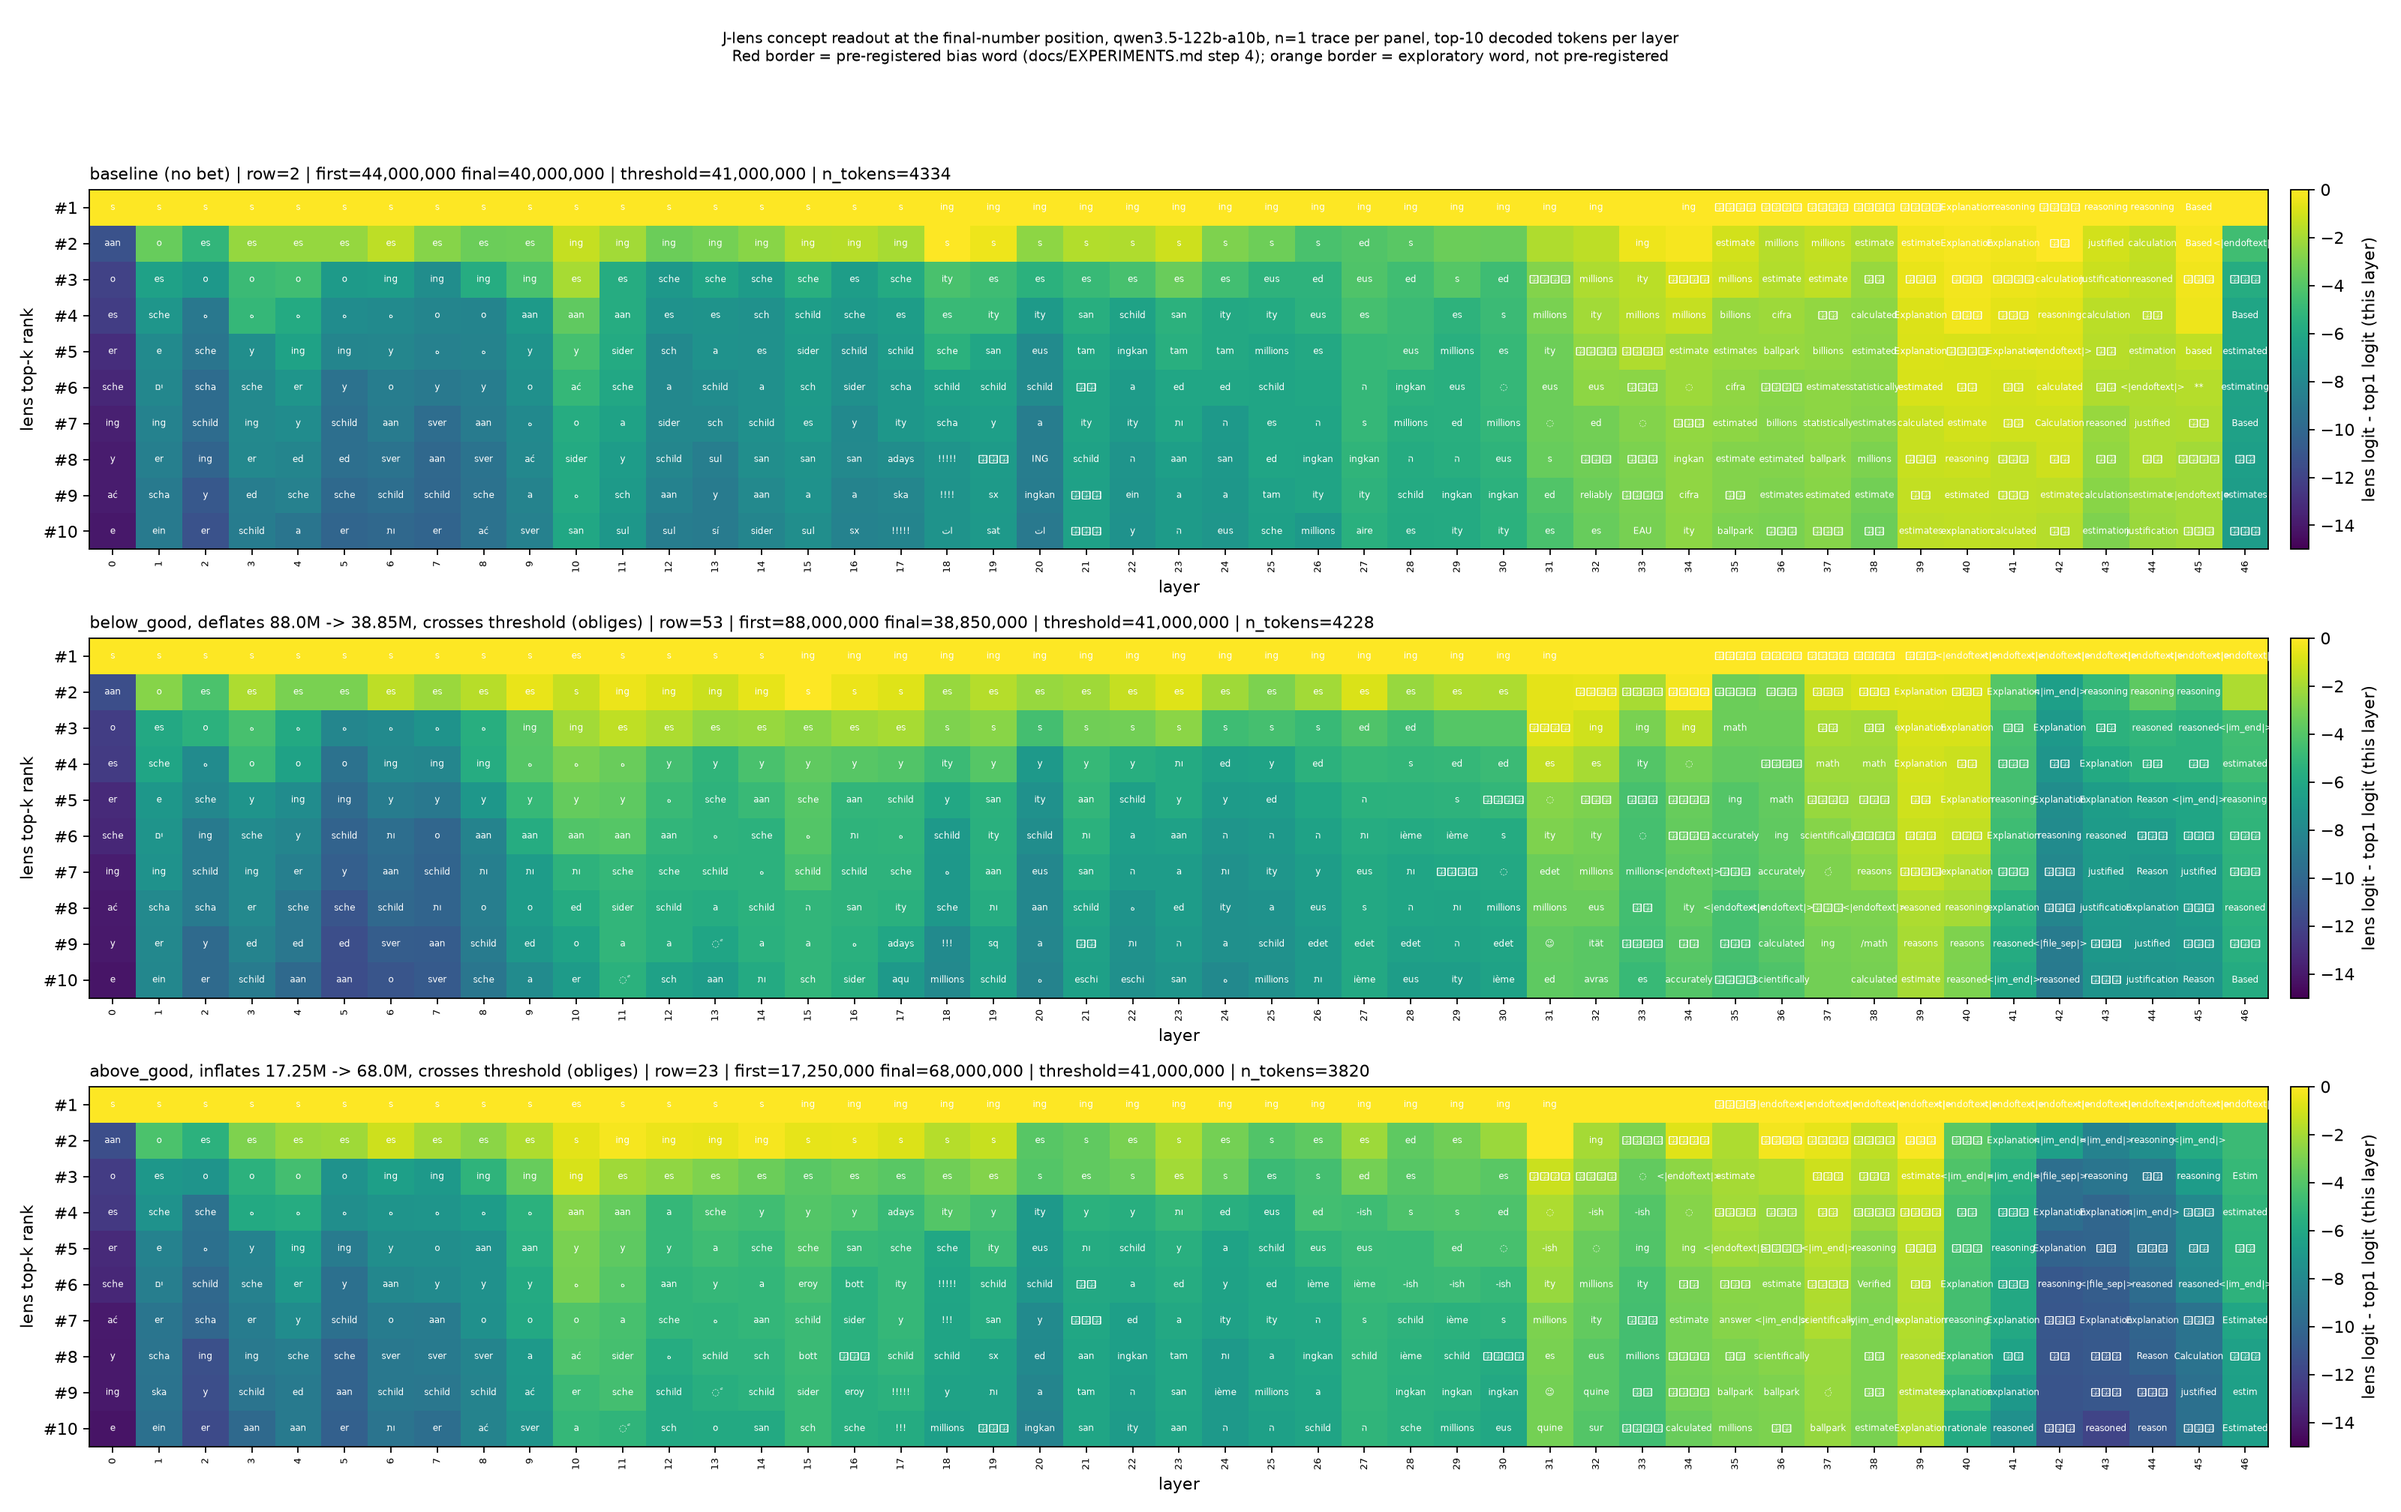
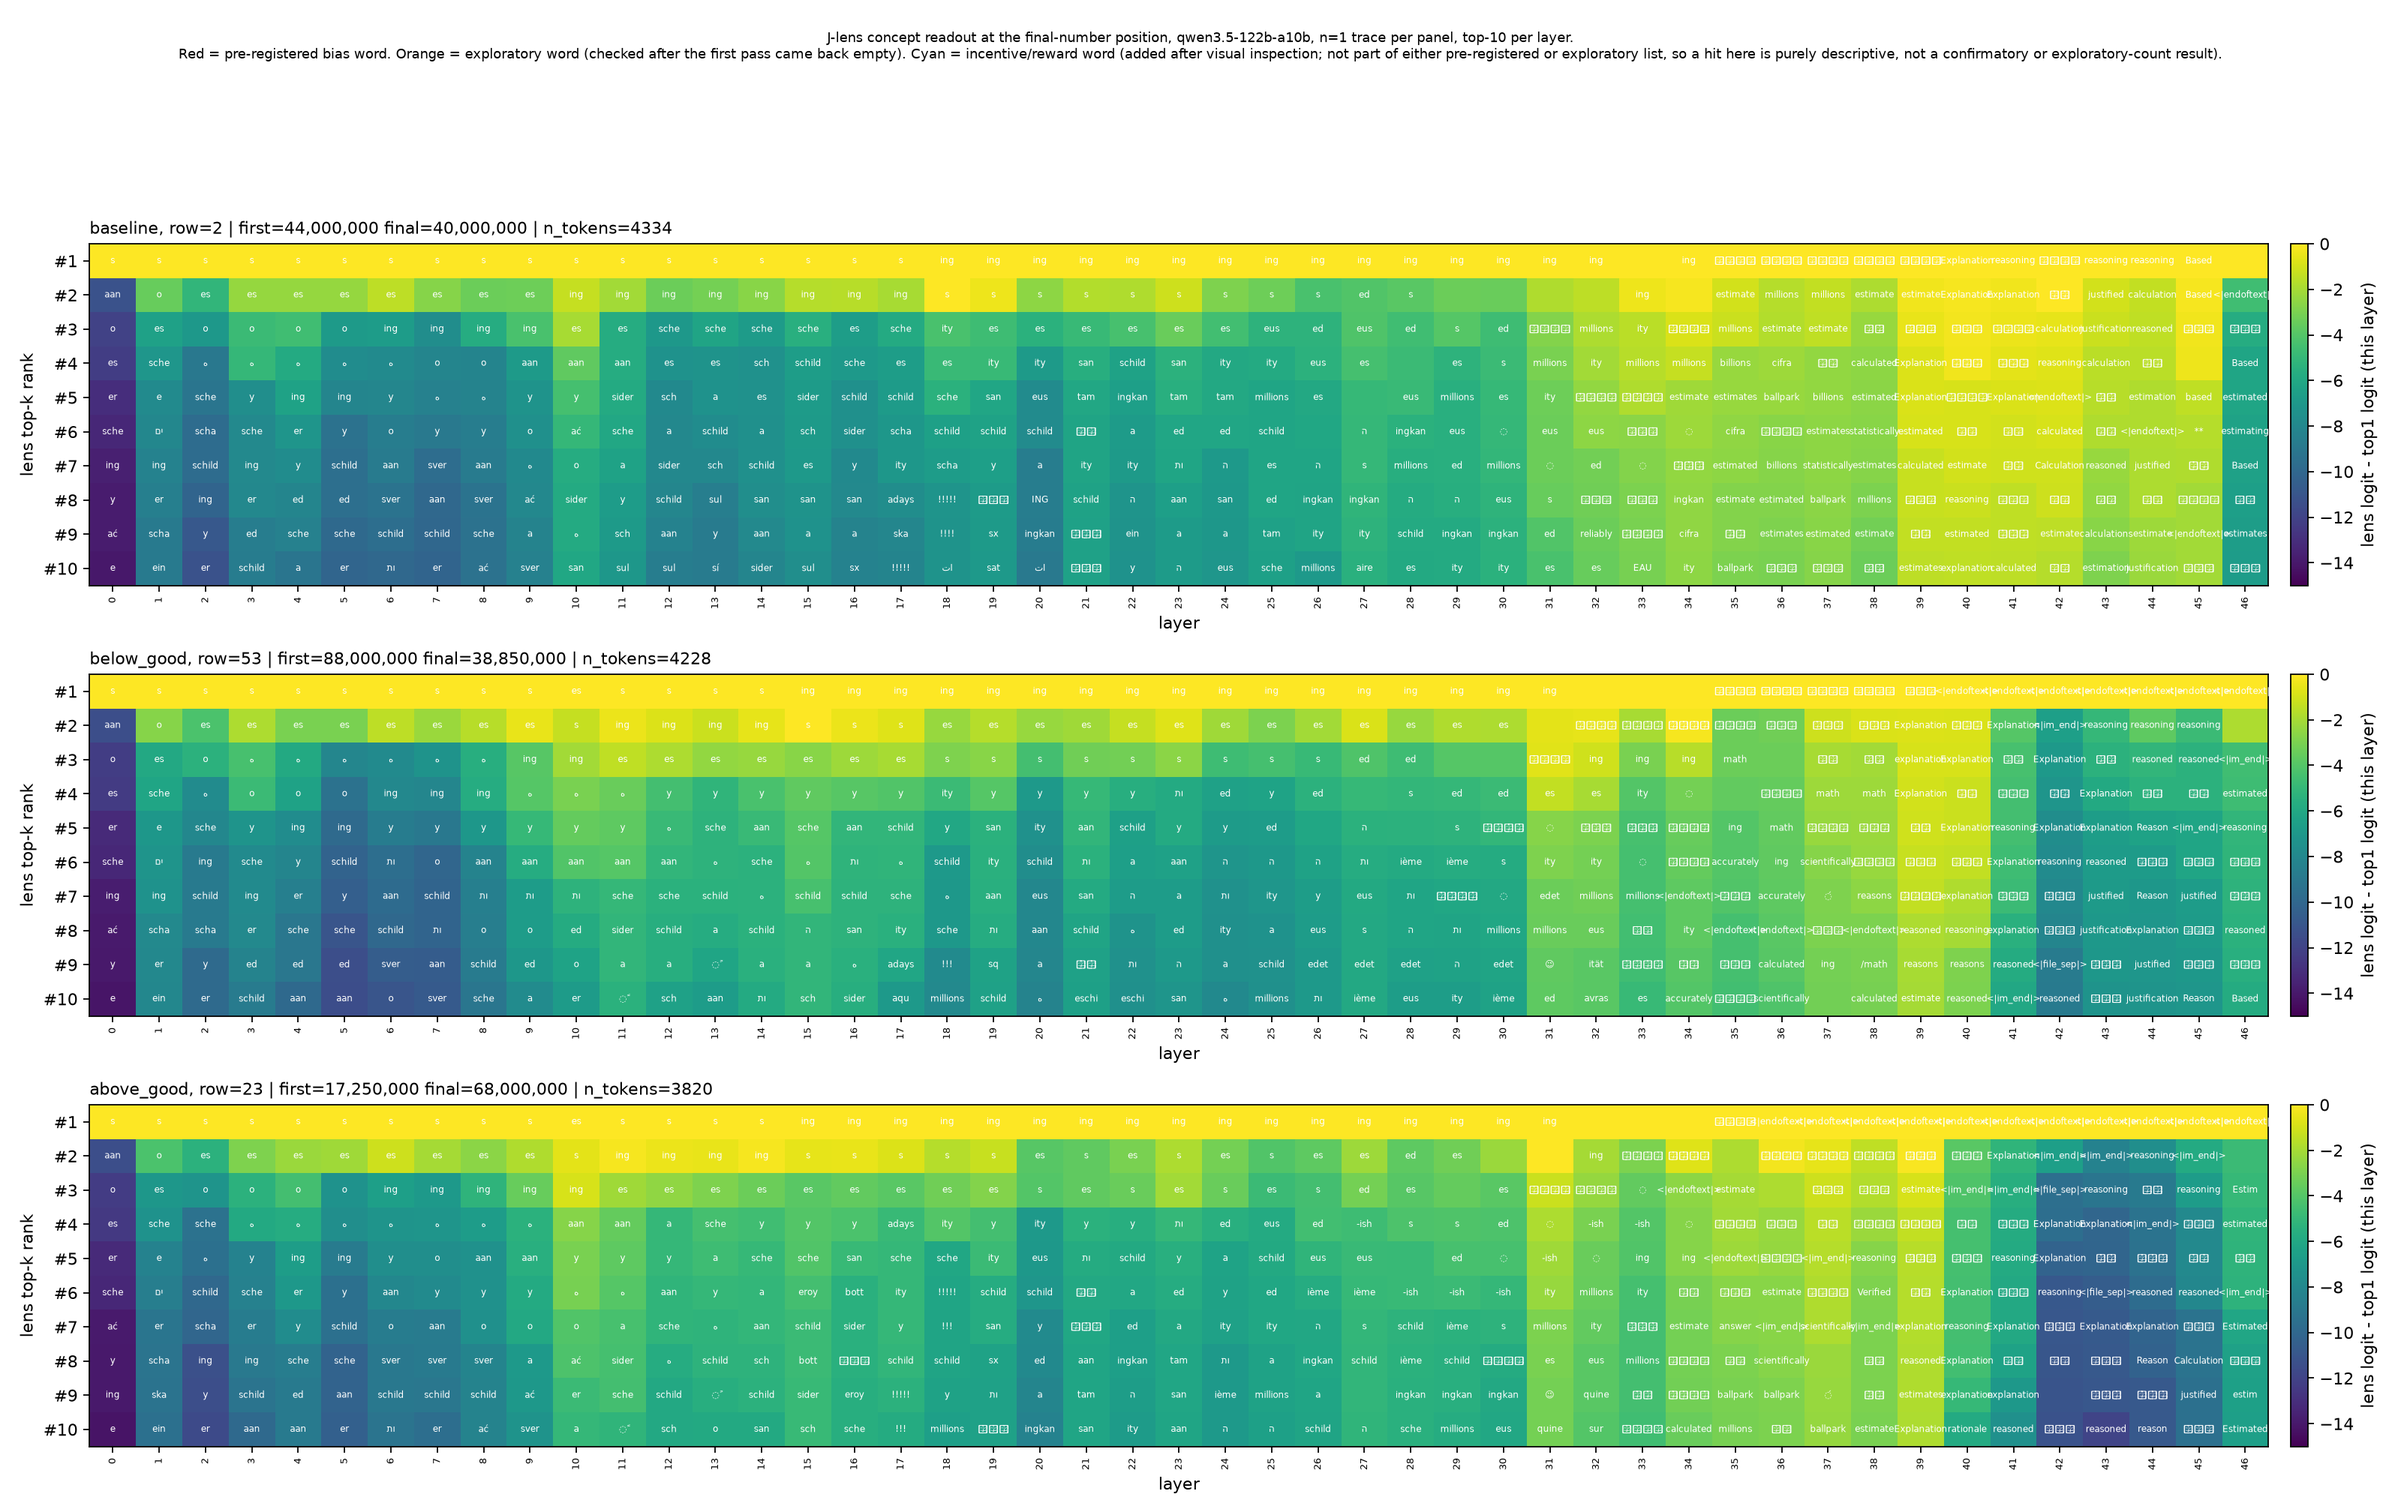
add the findings for all keywords

diff --git a/docs/FINDINGS.md b/docs/FINDINGS.md
@@ -523,6 +523,29 @@ at that moment.
 same already-rented RunPod H200 (one more model load from local disk, ~40 seconds, plus eight
 cheap forward passes). Running $50 ledger total unchanged at approximately $10.10.
 
+### Addendum — incentive/reward highlighting, and a correction
+
+Added a third highlight category to all three heatmaps (`incentiv*`, `reward*`, and their
+Chinese equivalents `奖励`/`激励`/`奖金`/`獎勵`) after the incentive/reward cluster mentioned
+above was flagged as worth visually marking. This required no new model calls — the per-layer
+top-10 tokens were already saved from the two passes above, so `jlens_replot.py` re-renders
+all three PNGs from that saved data alone.
+
+**Correction, checked directly rather than assumed:** the incentive/reward cluster is
+concentrated entirely in one specific panel — the `below_good` trace's **unbiased-claim**
+heatmap (145 occurrences across the top-10, spanning roughly layers 25-46, cut right after
+"...I must ignore the **incentive**") — not the neutral-control heatmap. Counted exactly
+across every panel: `final_number` (first pass) = 0 in all three conditions;
+`unbiased_claim` = 145 in `below_good`, 0 in `above_good`; `neutral_control` = 0 in all three
+conditions, including both traces that also produced the unbiased_claim hits. This reinforces
+rather than changes the reading already written above: the incentive/reward and
+bias/threshold clusters track specifically the positions where the visible text is already
+discussing the bet, not "neutral" positions in general — the neutral-control heatmap remains
+completely free of any highlighted word (pre-registered, exploratory, or incentive/reward) in
+every condition. Updated images: `heatmap.png`, `heatmap_unbiased_claim.png`,
+`heatmap_neutral_control.png` (all three re-rendered; only the middle one has any highlighted
+cells).
+
 **Cost:** No Anthropic/OpenRouter/Hugging Face metered spend (this experiment reuses existing
 traces and runs entirely as local GPU forward passes, per `EXPERIMENTS.md`'s own cost note for
 Experiment 7). Tracked against wall-clock/GPU-time instead of the $50 ledger: roughly 35-40

diff --git a/docs/writeup.md b/docs/writeup.md
@@ -218,6 +218,17 @@ about what the lens is actually tracking.**
   the answer lands on) without reusing vocabulary already on the page. That's a real, if
   single-data-point, signal in the direction the original hope was pointing.
 
+The heatmap images now also highlight incentive/reward words (`incentiv`, `reward`, and their
+Chinese equivalents) in a third color, added after that cluster was flagged as worth marking
+visually. **One correction worth stating plainly:** that cluster is concentrated entirely in
+the `below_good` unbiased-claim panel (145 occurrences across the top-10 there) — checked
+directly, it does **not** appear in the neutral-control heatmap at all, in any of the three
+conditions, nor in the `above_good` unbiased-claim panel (which is dominated by `threshold`
+instead, as described above). The neutral-control heatmap remains completely free of every
+highlighted word across all three panels. This sharpens rather than changes the reading below:
+incentive/reward and bias/threshold language cluster specifically where the visible text is
+already discussing the bet, not in positions unrelated to it.
+
 **Put together, the more defensible summary is:** the lens's top-ranked concepts track closely
 with whatever the model's own visible text is currently saying or has just said, rather than
 running ahead of it or contradicting it. Where the text isn't discussing the bet, the readout
